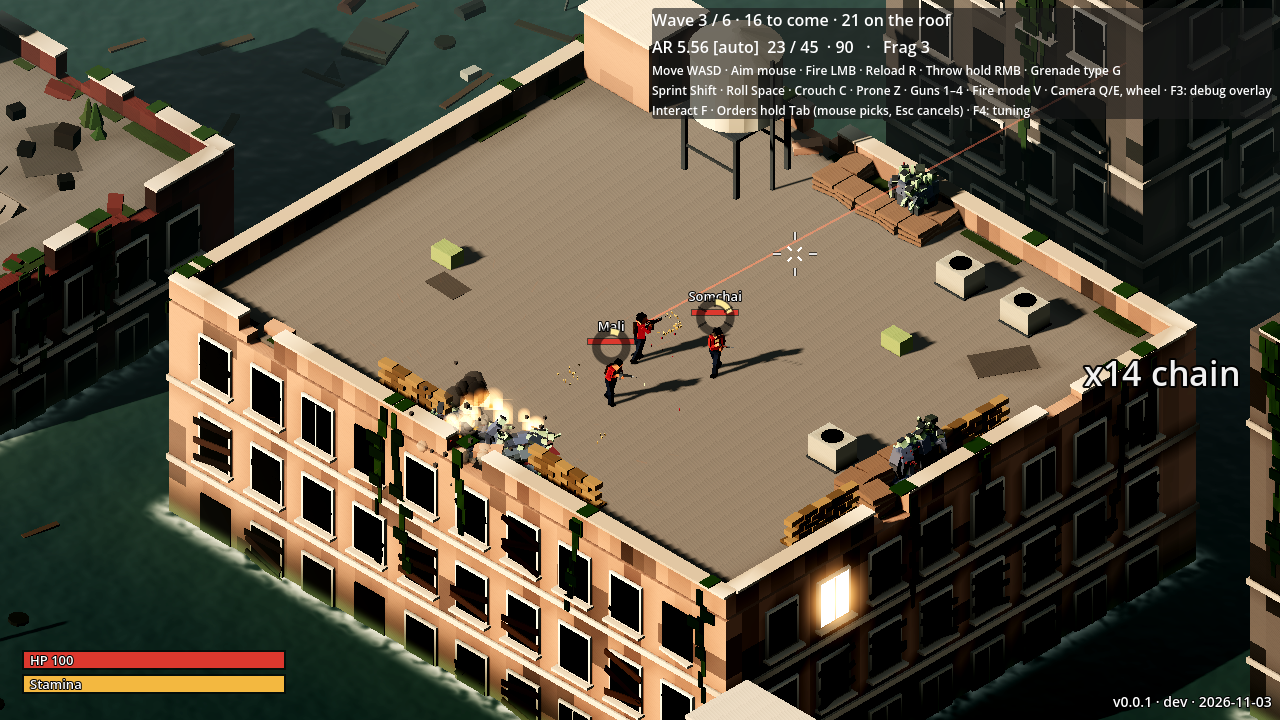
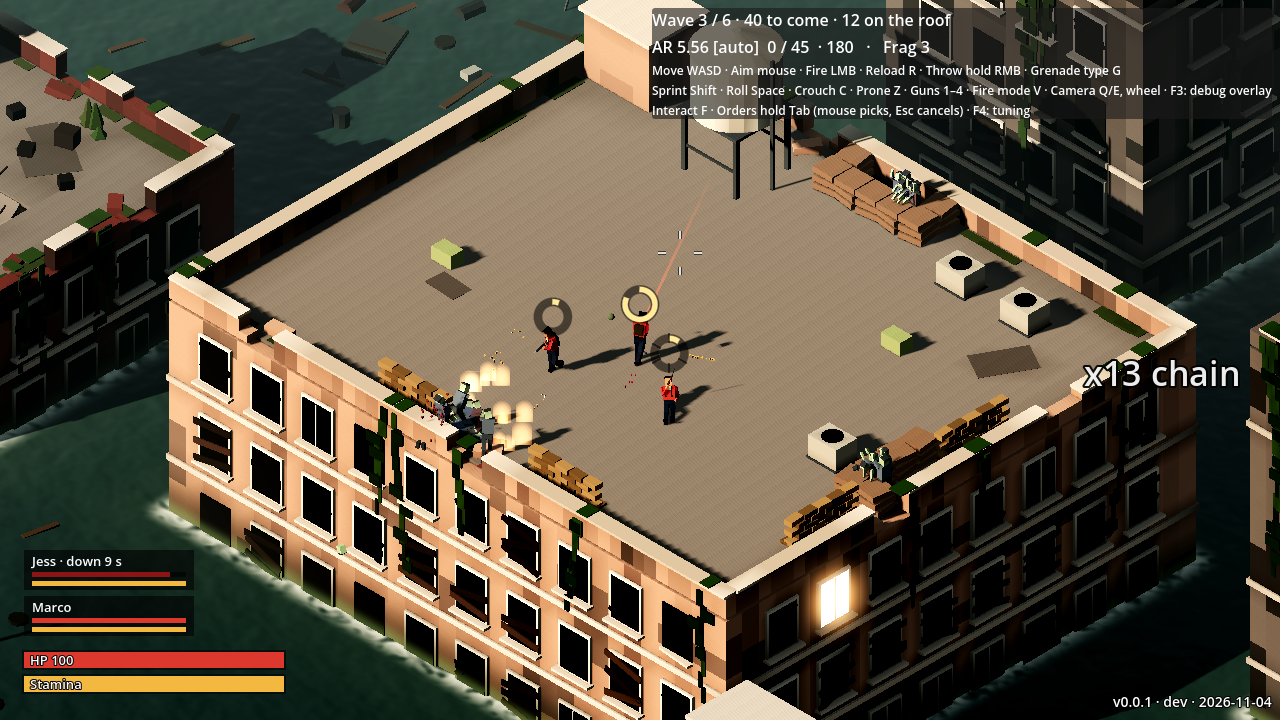
Teammates: Marco and Jess, team cards, nearest-to-self targeting
J: no Thai names and nothing over their heads; a small card per teammate with name, HP and stamina; shoot
the zombie nearest to themselves first. The cards sit above the player's bars (downed: countdown, dead:
greyed); over the heads only the reload / revive ring stays; protect_weight defaults to 0.

diff --git a/docs/PHASE1_RESULTS.md b/docs/PHASE1_RESULTS.md
@@ -9,14 +9,14 @@ Live: `?spike=arena` (2 teammates), `?spike=arena&mates=0` (none, to compare). O
 
 | Item | How |
 | --- | --- |
-| Who | Mali (AR + red dot, pistol) on the left, Somchai (pump shotgun, pistol) on the right; own ammo, topped up at each calm |
-| Brain | `TeammateBrain` (pure): nearest hunting zombie it can see within 0.85 × gun range, weighted 0.6 toward those near the player; turns at 420°/s, waits 0.3 s on a new target, fires inside 5°, bursts 0.35 s / pause 0.25 s (semi guns pulse); backs off anything within 2.4 m; keeps a spot 2.2 m beside and 2 m behind the player (GridPath around props); sprints back when > 9 m off and idle; swaps to the pistol when the main gun is dry; tactical reload under 40 % when nothing is near |
+| Who | Marco (AR + red dot, pistol) on the left, Jess (pump shotgun, pistol) on the right; own ammo, topped up at each calm |
+| Brain | `TeammateBrain` (pure): the hunting zombie nearest to itself that it can see within 0.85 × gun range (J; `protect_weight` 0); turns at 420°/s, waits 0.3 s on a new target, fires inside 5°, bursts 0.35 s / pause 0.25 s (semi guns pulse); backs off anything within 2.4 m; keeps a spot 2.2 m beside and 2 m behind the player (GridPath around props); sprints back when > 9 m off and idle; swaps to the pistol when the main gun is dry; tactical reload under 40 % when nothing is near |
 | Horde | `Horde.extra_targets`: hunters chase and hit whichever of player / teammates is nearest; the flow field has them all as goals |
 | Down | 10 s downed like the player; F next to them for 2 s gets them up (green ring); walking off cancels |
 | Orders | Follow me · Hold here (where each stands) · Hold fire (toggle); the other wheel items come with expeditions |
-| HUD | name, small HP bar (downed: countdown) and reload / revive ring over each teammate |
+| HUD | a card per teammate above the player's bars: name, HP (downed: countdown), stamina; greyed when dead. Over their heads only the reload / revive ring (J: no names over heads) |
 | No friendly fire | rounds test only the horde; grenades do hurt teammates |
-| Desktop bot run, wave 3 | cleared in ~25 s with the player on auto-shoot: Mali 36 kills, Somchai 6 of 65; nobody hit. Mali may be too strong: J's call (`data/combat/teammate.tres`) |
+| Desktop bot run, wave 3 | cleared in ~25 s with the player on auto-shoot: Marco 36 kills, Jess 6 of 65; nobody hit. Marco may be too strong: J's call (`data/combat/teammate.tres`) |
 | Not yet | teammates don't revive the player, throw grenades, crouch or take gas / fire damage; same outfit as the player (outfits are 1.8) |
 
 ## 1.5+ A4 HUD — 🟡 built (2026-11-03), waiting for J's look

diff --git a/docs/handoff/phase1-teammates.md b/docs/handoff/phase1-teammates.md
@@ -13,8 +13,10 @@
 - `game/spikes/teammate.gd`: a SpikePlayer whose wishes come from the brain; revive by F (2 s); swaps to the pistol.
 - SpikePlayer input goes through `_move_input / _wants_sprint / _wants_fire / _update_aim` (overridable).
 - `Horde.extra_targets / extra_hits`; horde_spike `add_teammate()` (flow goals, hits, blasts, fx, audio, HUD).
-- Arena: Mali (AR) + Somchai (shotgun), restock each calm, orders (Follow / Hold here / Hold fire), summary line,
+- Arena: Marco (AR) + Jess (shotgun), restock each calm, orders (Follow / Hold here / Hold fire), summary line,
   `?mates=N`. HUD: names, mini HP bars, revive ring. Picture: `docs/art/11_teammates.png`.
+- J (2026-11-04): "เปลี่ยนชื่อเพื่อน ไม่ใช้ชื่อไทยและไม่แสดงบนหัวตัวละคร / มีแถบการ์ดเล็กๆแสดงพลังชีวิต สแตมิน่า ชื่อของเพื่อน /
+  เพื่อนจะยิงศัตรูที่อยู่ใกล้ตัวเองมากที่สุดก่อน" → Marco and Jess; team cards above the player's bars; protect_weight 0.
 - 6 new tests, 215 total, all passing on desktop.
 
 ## Not done / next

diff --git a/docs/PHASE1.md b/docs/PHASE1.md
@@ -118,7 +118,7 @@ of it taken from those milestones.
       the same `Gun` / ballistics, reload, carry their own ammo, make noise, can be downed and revived by the
       player (hold F). Orders from the Tab wheel: follow / hold here. No friendly fire for now.
       → `Teammate` (a SpikePlayer driven by `TeammateBrain` instead of input) + `data/combat/teammate.tres`;
-      Mali (AR) and Somchai (shotgun), each with a pistol; `Horde.extra_targets`: hunters chase and hit the nearest;
+      Marco (AR) and Jess (shotgun), each with a pistol; `Horde.extra_targets`: hunters chase and hit the nearest;
       orders wheel: Follow me / Hold here / Hold fire; downed: F next to them for 2 s; `?mates=N`.
 
 ### 1.G Gate — "combat is fun"
